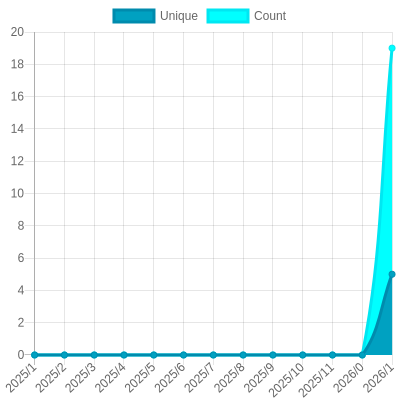
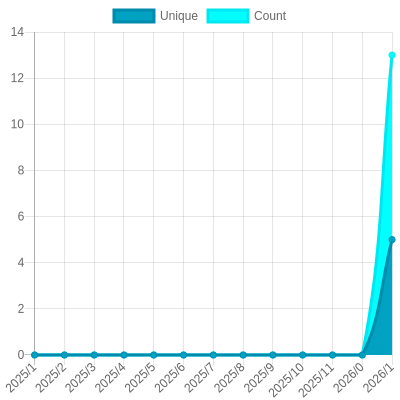
Update views

diff --git a/readme/929886273/year.md b/readme/929886273/year.md
@@ -26,7 +26,7 @@
 			<code>5</code>
 		</td>
 		<td>
-			<code>19</code>
+			<code>13</code>
 		</td>
 	</tr>
 	<tr>
@@ -164,7 +164,7 @@
 </table>
 
 </details>
-<small><i>Last updated on 2025/2/23 12:20 PM UTC</i></small>
+<small><i>Last updated on 2025/2/23 6:14 PM UTC</i></small>
 
 ## ✂Copy and 📋 Paste
 ### SVG Badge

diff --git a/README.md b/README.md
@@ -133,7 +133,7 @@ The project created and maintained by [gayanvoice](https://github.com/gayanvoice
 	</tr>
 </table>
 
-<small><i>Last updated on 2025/2/23 12:20 PM UTC</i></small>
+<small><i>Last updated on 2025/2/23 6:14 PM UTC</i></small>
 
 ## ✂Copy and 📋 Paste
 ### Total Views Badge

diff --git a/readme/930574550/year.md b/readme/930574550/year.md
@@ -164,7 +164,7 @@
 </table>
 
 </details>
-<small><i>Last updated on 2025/2/23 12:20 PM UTC</i></small>
+<small><i>Last updated on 2025/2/23 6:14 PM UTC</i></small>
 
 ## ✂Copy and 📋 Paste
 ### SVG Badge

diff --git a/readme/933424964/year.md b/readme/933424964/year.md
@@ -164,7 +164,7 @@
 </table>
 
 </details>
-<small><i>Last updated on 2025/2/23 12:19 PM UTC</i></small>
+<small><i>Last updated on 2025/2/23 6:13 PM UTC</i></small>
 
 ## ✂Copy and 📋 Paste
 ### SVG Badge

diff --git a/readme/933435537/year.md b/readme/933435537/year.md
@@ -164,7 +164,7 @@
 </table>
 
 </details>
-<small><i>Last updated on 2025/2/23 12:19 PM UTC</i></small>
+<small><i>Last updated on 2025/2/23 6:14 PM UTC</i></small>
 
 ## ✂Copy and 📋 Paste
 ### SVG Badge

diff --git a/readme/933584443/year.md b/readme/933584443/year.md
@@ -164,7 +164,7 @@
 </table>
 
 </details>
-<small><i>Last updated on 2025/2/23 12:19 PM UTC</i></small>
+<small><i>Last updated on 2025/2/23 6:14 PM UTC</i></small>
 
 ## ✂Copy and 📋 Paste
 ### SVG Badge

diff --git a/readme/933839601/year.md b/readme/933839601/year.md
@@ -164,7 +164,7 @@
 </table>
 
 </details>
-<small><i>Last updated on 2025/2/23 12:19 PM UTC</i></small>
+<small><i>Last updated on 2025/2/23 6:14 PM UTC</i></small>
 
 ## ✂Copy and 📋 Paste
 ### SVG Badge

diff --git a/readme/933921274/year.md b/readme/933921274/year.md
@@ -164,7 +164,7 @@
 </table>
 
 </details>
-<small><i>Last updated on 2025/2/23 12:19 PM UTC</i></small>
+<small><i>Last updated on 2025/2/23 6:14 PM UTC</i></small>
 
 ## ✂Copy and 📋 Paste
 ### SVG Badge
